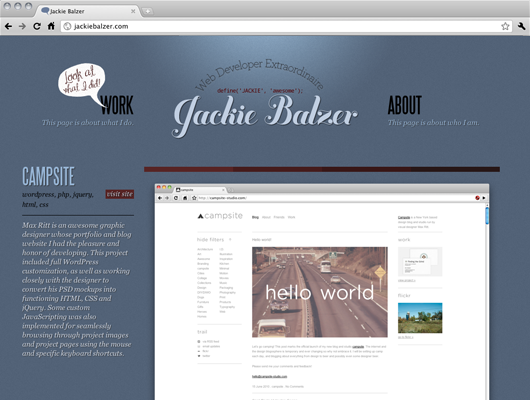
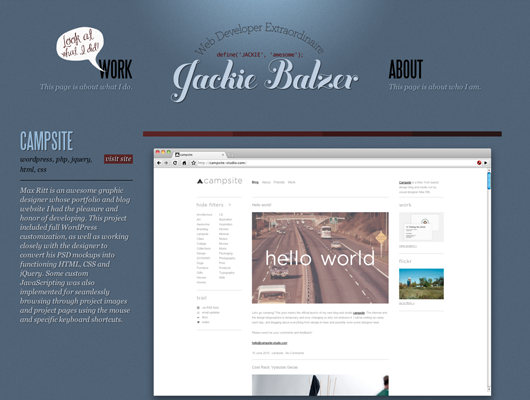
added image slide resizing on the portfolio

diff --git a/js/script.js b/js/script.js
@@ -4,6 +4,30 @@
 
 $(document).ready(function(){
 	
+	// change the prev/next buttons on the portfolio page to fixed when you
+	// scroll down the page
+	var $buttonWrap = $('.button-wrap'),
+		currentPos = 'relative';
+	
+	$(this).scroll( function() {
+		
+		var pageDistance = $(this).scrollTop();
+
+		if (currentPos == 'relative') {
+			if (pageDistance > 135) {
+				$buttonWrap.css({'position' : 'fixed', 'top' : '10px'});
+				currentPos = 'fixed';
+			}
+		} else {
+			if (pageDistance < 135) {
+				$buttonWrap.css({'position' : 'relative', 'top' : '0'});
+				currentPos = 'relative';
+			}
+		}
+	
+	}); // end change to fixed while scrolling
+	
+	
 	// get ready to fix emails
 	$('.email').each(function(){		
 
@@ -37,6 +61,7 @@ $(document).ready(function(){
 	
 	
 	// Animation for the Work category selector on the homepage
+	/* currently unused
 	$('#work_select section').mouseenter(function() {
 		$(this).animate({'backgroundColor' : 'rgba(0, 0, 0, 0.2)'}, 'fast');
 	});
@@ -44,6 +69,7 @@ $(document).ready(function(){
 	$('#work_select section').mouseleave(function() {
 		$(this).animate({'backgroundColor' : 'transparent'}, 'fast');
 	});
+	*/
 	
 	
 	// Featured project slider counter
@@ -52,13 +78,13 @@ $(document).ready(function(){
 	
 	$('.next, .prev').click(function() {
 		going_next = $(this).hasClass('next');
-	})
+	});
 	
 	$(".scrollable").scrollable({circular : true, keyboard : true});
 	var api = $(".scrollable").data("scrollable");
 
 	var animate = function(next_page) {
-			
+		
 		var span = $('<span/>').attr('id', 'page-' + next_page).addClass('flipper one').text(next_page);
 		
 		if(going_next) {
@@ -120,6 +146,13 @@ $(document).ready(function(){
 		} else if( border_value == true ) {
 			border_value = false;
 		}
+		
+		var slideHeight = $($('.items img')[next_page]).attr('height');
+		
+		if (!slideHeight == 0) {
+			api.getRoot().animate({'height' : slideHeight}, 400);
+		}
+		
 		
 	});
 

diff --git a/portfolio.html b/portfolio.html
@@ -105,19 +105,21 @@
 		<p><a href="#">Visit the website</a></p>
 	</div>
 	
-	<div id="portfolio_prev" class="clearfix"><a class="button slider portfolio prev">back</a></div>
-	<div id="portfolio_next" class="clearfix"><a class="button slider portfolio next">next</a></div>
+	<div class="button-wrap">
+		<div id="portfolio_prev" class="clearfix"><a class="button slider portfolio prev">back</a></div>
+		<div id="portfolio_next" class="clearfix"><a class="button slider portfolio next">next</a></div>
+	</div>
 	
 	<div id="portfolio_project_wrap">
 	
 		<div class="scrollable">
 			<div class="items">
 				<div class="web-item">
-		        	<img src="img/portfolio/jackiebalzer01.jpg" />
+		        	<img height="1776" src="img/portfolio/jackiebalzer01.jpg" />
 				</div>
 			
 				<div>
-		        	<img src="http://farm4.static.flickr.com/3089/2796719087_c3ee89a730_t.jpg" />
+		        	<img height="673" src="img/portfolio/jackiebalzer02.jpg" />
 				</div>
 			
 				<div>

diff --git a/index.html b/index.html
@@ -88,11 +88,23 @@ Define fallback fonts
 			<div class="scrollable">
 				<div class="items">
 					<div>
-			        	<img src="img/featured/jackiebalzer-slide1.png" />
+			        	<img class="web-item" src="img/featured/jackiebalzer-slide1.png" />
 					</div>
 				
 					<div>
 			        	<img src="img/featured/jackiebalzer-slide2.png" />
+					</div>
+					
+					<div>
+			        	<img class="web-item" src="img/featured/insomniacs-slide1.png" />
+					</div>
+					
+					<div>
+			        	<img src="img/featured/insomniacs-slide2.png" />
+					</div>
+					
+					<div>
+			        	<img src="img/featured/insomniacs-slide3.png" />
 					</div>
 				</div>
 			</div>

diff --git a/css/style.css b/css/style.css
@@ -1,9 +1,3 @@
-/* 
-  html5doctor.com Reset Stylesheet (Eric Meyer's Reset Reloaded + HTML5 baseline)
-  v1.4 2009-07-27 | Authors: Eric Meyer & Richard Clark
-  html5doctor.com/html-5-reset-stylesheet/
-*/
-
 html, body, div, span, object, iframe,
 h1, h2, h3, h4, h5, h6, p, blockquote, pre,
 abbr, address, cite, code,
@@ -676,6 +670,11 @@ section nav {
 #portfolio_prev {
 	float: left;
 	background: 28px center url(../img/dot.png) repeat-y;
+}
+
+.button-wrap {
+	width: 940px;
+	position: relative;
 }
 
 #portfolio_next a { margin-top: 80px; right: 0; }
